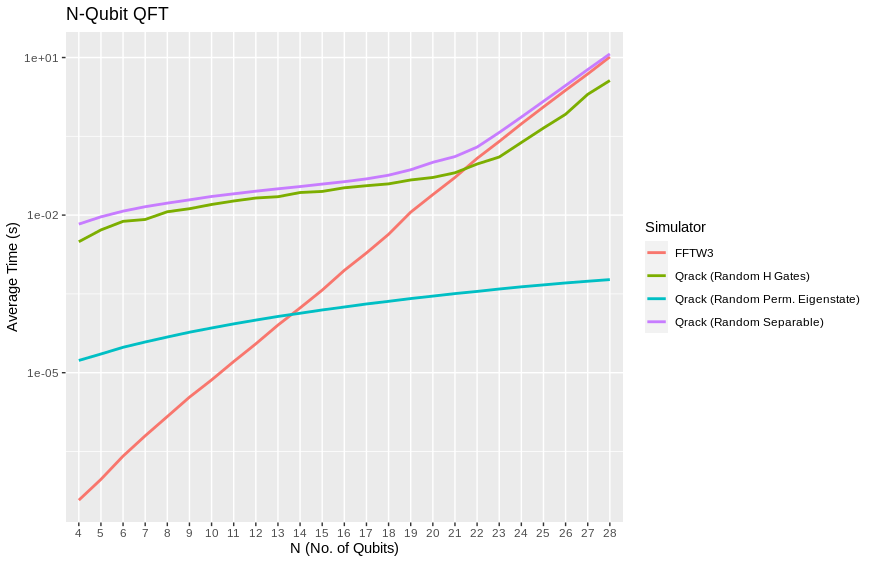
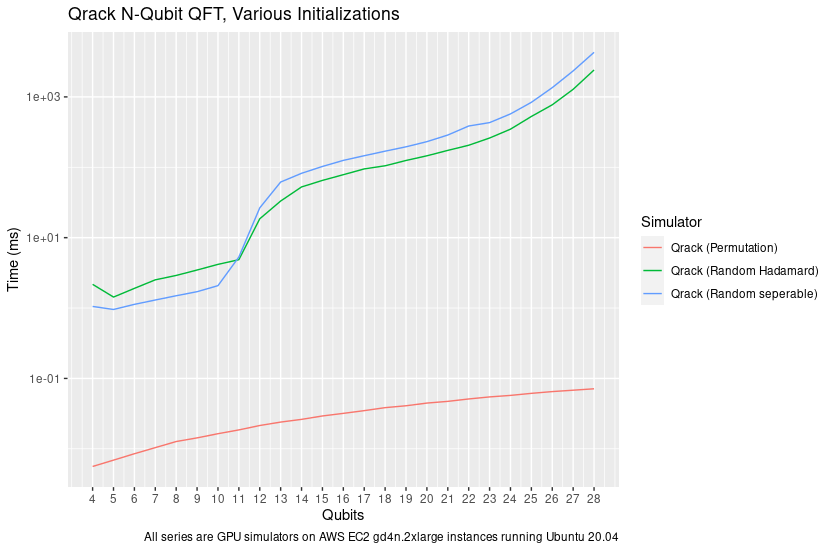
Benchmark update

diff --git a/docs/performance.rst b/docs/performance.rst
@@ -29,8 +29,7 @@ doubling RAM usage by a factor of 2 per fully interoperable qubit, or else
 Feynman path integrals, which can become intractible at arbitrary circuit depth.
 Attempting to build on the work of IBM's `Breaking the 49-Qubit Barrier in the Simulation of Quantum Circuits` [Pednault2017]_ paper, 
 with more recent attention to potential improvements inspired by Gottesman-Knill stabilizer simulators,
-Qrack can execute surprisingly general circuits up to 64 qubits in width on modest single nodes,
-such as constrained cases of the QFT.
+Qrack can execute surprisingly general circuits past 32 qubits in width on modest single nodes.
 
 Qrack is an open-source quantum computer simulator option, implemented in C++, 
 supporting integration into other popular compilers and interfaces, suitable for utilization in a wide variety
@@ -39,15 +38,18 @@ benchmarks useful for comparing performance between various quantum
 simulators.
 
 Qrack provides a "QEngineCPU" and a "QEngineOCL" that represent non-OpenCL and 
-OpenCL base implementations, which could also be the most efficient types to 
-use directly in the limit of maximal entanglement. For general use cases, 
+OpenCL base implementations for Schrödinger method simulation. "QHybrid" switches off between
+these two types internally for best performance at low qubit widths. "QStabilizerHybrid" switches
+off internally between Gottesman-Knill "stabilizer" simulation and Schrödinger method. For general use cases,
 the "QUnit" layer provides explicit Schmidt decomposition on top of another 
-engine type (per [Pednault2017]_) and "QFusion" provides a "gate fusion" 
-layer. A "QEngine" type is always the base layer, and QUnit and QFusion types 
+engine type (per [Pednault2017]_). "QPager" segments a Schrödinger method simulation
+into equally sized "pages" that can be run on multiple OpenCL devices or multiple maximum
+allocation segments of a single device, increasing greatest maximally entangled width.
+A "QEngine" type is always the base layer, and QUnit, QStabilizerHybrid, and QPager types
 may be layered over these, and over each other.
 
 This version of the Qrack benchmarks contains comparisons against other
-publicly available simulators, specifically Cirq, QCGPU, and Qiskit (each with its
+publicly available simulators, specifically QCGPU, and Qiskit (each with its
 default simulator, if multiple were available). Qrack has been incorporated as an optional
 back end for ProjectQ and plugin for Qiskit, in repositories maintained by the developers of Qrack, and
 benchmarks for their performance will follow.
@@ -76,17 +78,17 @@ Method
 
 This performance document is meant to be a simple, to-the-point, and preliminary digest of these results. We plan to submit a formal academic report for peer review of these results, in full detail, as soon as we collect sufficient feedback on the preprint. (The originally planned date of submission was in February of 2020, but it seems that COVID-19 has hindered our ability to seek preliminary feedback.) These results were prepared with the generous financial support of the Unitary Fund. However, we offer that our benchmark code is public, largely self-explanatory, and easily reproducible, while we prepare that report. Hence, we release these partial preliminary results now.
 
-100 timed trials of single and parallel gates were run for each qubit count between 4 and 28 qubits. Three tests were performed: the quantum Fourier transform, ("QFT"), random circuits constructed from a universal gate set, and an idealized approximation of Google's Sycamore chip benchmark, as per [Sycamore]_. The benchmarking code is available at `https://github.com/vm6502q/simulator-benchmarks <https://github.com/vm6502q/simulator-benchmarks>`_.
+100 timed trials of single and parallel gates were run for each qubit count between 4 and 28 qubits. Three tests were performed: the quantum Fourier transform, ("QFT"), random circuits constructed from a universal gate set, and an idealized approximation of Google's Sycamore chip benchmark, as per [Sycamore]_. The benchmarking code is available at `https://github.com/vm6502q/simulator-benchmarks <https://github.com/vm6502q/simulator-benchmarks>`_. Default build and runtime options were used for all candidates. **Notably, this means Qrack ran at single floating point accuracy whereas QCGPU and Qiskit ran at double floating point accuracy.**
 
-CPU and GPU benchmarks were run on two respective systems that could represent realistic use cases for each engine type. Among AWS virtual machine instances, we sought to find those systems with the lowest possible cost to run the benchmarks for their respective execution times, at or below for the 28 qubit mark. An AWS g3s.xlarge running Ubuntu Server 18.04LTS was selected for GPU benchmarks. An AWS c5.4xlarge running Ubuntu Server 18.04LTS was selected for CPU benchmarks, including FFTW3 for comparison on the QFT test. Benchmarks were collected from December 27, 2019 through January 24, 2020. Given delays in soliciting peer opinion, while development of Qrack continued, the Qrack benchmarks were updated on April 30th, 2020. These results were combined with single gate, N-width gate and Grover's search benchmarks for Qrack, collected overnight from December 19th, 2018 into the morning of December 20th. (The potential difference since December 2018 in these particular Qrack tests reused from then should be insignificant. We took care to try to report fair tests, within cost limitations, but please let us know if you find anything that appears misrepresentative.)
+Among AWS virtual machine instances, we sought to find those systems with the lowest possible cost to run the benchmarks for their respective execution times, at or below for the 28 qubit mark. An AWS g4dn.2xlarge running Ubuntu Server 20.04LTS was selected for GPU benchmarks. Benchmarks were collected from March 4, 2021 through March 7, 2021. These results were combined with single gate, N-width gate benchmarks for Qrack, collected overnight from December 19th, 2018 into the morning of December 20th. (The potential difference since December 2018 in these particular Qrack tests reused from then should be insignificant. We took care to try to report fair tests, within cost limitations, but please let us know if you find anything that appears misrepresentative.)
 
-The average time of each set of 100 was recorded and graphed. Grover's search to invert a black box subroutine, or "oracle," was similarly implemented for trials between 5 and 20 qubits, for QEngineOCL with and without QUnit and QFusion layers. Grover's algorithm was iterated an optimal number of times, vs. qubit count, to maximize probability on a half cycle of the algorithm's period, being :math:`floor\left[\frac{\pi}{4asin^2\left(1/\sqrt{2^N}\right)}\right]` iterations for :math:`N` qubits.
+Comparative benchmarks included QCGPU, the Qiskit-Aer GPU simulator, and Qrack's default typically optimal "stack" of a "QUnit" layer on top of "QStabilizerHybrid," on top of "QPager," on top "QHybrid." All of these candidates are GPU-based. CPU-based Cirq was considered for presentation here, but a nonexhaustive experiment on AWS CPU instances advertised as low cost-for-performance failed to return Cirq results on rough order of cost-for-performance of any GPU candidate. However, the author does not feel comfortable concluding on this basis that CPU-based simulation cost could not be made competitve with GPU-based simulation, hence we omit Cirq from our graphs to avoid potential misrepresentation.
 
-Comparative benchmarks included Cirq, QCGPU, and Qiskit, and Qrack's "QUnit" layer on top of "QFusion" and "QEngineOCL." (Default simulators were used, for other candidates, if more than one option was available.) QFT benchmarks could be implemented in a straightforward manner on all simulators, and were run as such. Qrack appears to be the only candidate considered for which inputs into the QFT can (drastically) affect its execution time, with permutation basis states being run in much shorter time, for example, hence only Qrack required a more general random input, whereas all other simulators including FFTW3 were started in the |0> state. For a sufficiently representatively general test, Qrack instead used registers of single separable qubits intialized with uniformly randomly distributed probability between |0> and |1>, and uniformly randomly distributed phase offset between those states. FFTW3 was included in this test, in "in-place" mode on complex single floats, since all other DFT tests are effectively "in-place" method, here.
+QFT benchmarks could be implemented in a straightforward manner on all simulators, and were run as such. Qrack appears to be the only candidate considered for which inputs into the QFT can (drastically) affect its execution time, with permutation basis states being run in much shorter time, for example, hence only Qrack required a more general random input, whereas all other simulators were started in the |0> state. For a sufficiently representatively general test, Qrack instead used registers of single separable qubits intialized with uniformly randomly distributed probability between |0> and |1>, and uniformly randomly distributed phase offset between those states.
 
 Random universal circuits carried out layers of single qubit gates on every qubit in the width of the test, followed by layers randomly selected couplings of (2-qubit) CNOT, CZ, and SWAP, or (3-qubit) CCNOT, eliminating each selected bit for the layer. 20 layers of 1-qubit-plus-multi-qubit iterations were carried out, for each qubit width, for the benchmarks presented here.
 
-For the Sycamore circuit idealization, the quoted 2-qubit "typical" gate of "iSWAP" with "1/6th CZ" was used in all cases. Sycamore circuits were carried out similarly to random universal circuits and the method of the [Sycamore]_ paper, interleaving 1-qubit followed by 2-qubit layers, to depth of 20 layers each. Whereas as that original source appears to have randomly fixed its target circuit ahead of any trials, and then carried the same pre-selected circuit out repeatedly for the required number of trials, all benchmarks in the case of this report generated their circuits per-iteration on-the-fly, per the selection criteria as read from the text of [Sycamore]_. With the 2-qubit gate idealization already mentioned, Qrack easily implemented the original Sycamore circuit exactly. By nature of the simulation methods used in each other candidate, atomic "convenience method" 1-qubit and 2-qubit gate definitions could potentially easily be added to every every candidate for this test, hence we thought it most representative to make largely performance-irrelevant substitutions of 1-qubit and 2-qubit gates for those candidates which did not already define sufficient API convenience methods, without nonrepresentatively complicated gate decompositions. We strongly encourage the reader to inspect and independently execute the simple benchmarking code which was already linked in the beginning of this "Method" section, for total specific detail.
+Sycamore circuits were carried out similarly to random universal circuits and the method of the [Sycamore]_ paper, interleaving 1-qubit followed by 2-qubit layers, to depth of 20 layers each. Whereas as that original source appears to have randomly fixed its target circuit ahead of any trials, and then carried the same pre-selected circuit out repeatedly for the required number of trials, all benchmarks in the case of this report generated their circuits per-iteration on-the-fly, per the selection criteria as read from the text of [Sycamore]_. Qrack easily implemented the original Sycamore circuit exactly. By nature of the Schrödinger method simulation used in each other candidate, atomic "convenience method" 1-qubit and 2-qubit gate definitions could potentially easily be added to other candidates for this test, hence **we thought it most representative to make largely performance-irrelevant substitutions of "SWAP" for "iSWAP" for those candidates which did not already define sufficient API convenience methods for "Sycamore" circuits,** without nonrepresentatively complicated gate decompositions. We strongly encourage the reader to inspect and independently execute the simple benchmarking code which was already linked in the beginning of this "Method" section, for total specific detail.
 
 Qrack QEngine type heap usage was established as very closely matching theoretical expections, in earlier benchmarks, and this has not fundamentally changed. QUnit type heap usage varies greatly dependent on use case, though not in significant excess of QEngine types. No representative RAM benchmarks have been established for QUnit types, yet. QEngine Heap profiling was carried out with Valgrind Massif. Heap sampling was limited but ultimately sufficient to show statistical confidence.
 
@@ -109,13 +111,7 @@ Heap sampling supports theoretical expecations to high confidence. Complex numbe
 
 .. image:: performance/qrack_ram.png
 
-QUnit explicitly separates its representation of the quantum state and may operate with much less RAM, but QEngine's RAM usage represents approximately the worst case for QUnit, of maximal entanglement. OpenCL engine types attempt to use memory on the accelerator device instead of general heap when a QEngineOCL instance can fit a single copy of its state vector in a single allocation on the device. On many modern devices, state vectors up to about 1GB in size can be allocated directly on the accelerator device instead of using general heap. A auxiliary buffer used for normalization is half the size of the state vector, and this buffer is always allocated in general heap.
-
-Grover's algorithm is a relatively ideal test case, in that it allows a modicum of abstraction in implementation while representing an ostensibly practical and common task for truly quantum computational hardware. For 1 expected correct function inversion result, there is a well-defined highest likelihood search iteration count on half a period of the algorithm for a given number of oracle input permutations to search. Time required to run the test for QEngineCPU up to 20 qubits became prohibitive, hence we leave its variants off the graph. However, we can establish baseline for OpenCL performance, with Grover's search, and compare the performance of a "QEngine-method" to a "QUnit-method." This graphs shows average time against qubit count for an optimal half period search:
-
-.. image:: performance/grovers.png
-
-[Broda2016]_ discusses how Grover's might be adapted in practicality to actually "search an unstructured database," or search an unstructured lookup table, and Qrack is also capable of applying Grover's search to a lookup table with its IndexedLDA, IndexedADC, and IndexedSBC methods. Benchmarks are not given for this arguably more practical application of the algorithm, because few other quantum computer simulator libraries implement it, yet.
+QUnit explicitly separates its representation of the quantum state and may operate with much less RAM, but QEngine's RAM usage represents approximately the worst case for QUnit, of maximal entanglement. OpenCL engine types attempt to use memory on the accelerator device instead of general heap when a QEngineOCL instance can fit a single copy of its state vector in a single allocation on the device. On many modern devices, state vectors up to about 1GB in size can be allocated directly on the accelerator device instead of using general heap. "Paging" with QPager allows multiple such maximum allocation segments to be used for the same single simulation. If the normalization option is on, an auxiliary buffer is allocated for normalization that is half the size of the state vector.
 
 The "quantum" (or "discrete") Fourier transform (QFT/DFT) is a realistic and important test case for its direct application in day-to-day industrial computing applications, as well as for being a common processing step in many quantum algorithms.
 
@@ -123,37 +119,42 @@ The "quantum" (or "discrete") Fourier transform (QFT/DFT) is a realistic and imp
 
 .. image:: performance/qft_optimization.png
 
-Recall that QCGPU and Qrack are GPU-implementations run on AWS g3s.xlarge instances, whereas all other candidates are run on AWS c5.4xlarge instances. Under these considerations, by the 28 qubit level, Qrack out-performs all other candidates except FFTW3. (Recall, also, that Qrack uses a representatively "hard" initialization on this test, as described above, whereas permutation basis eigenstate inputs, for example, are much more quickly executed.) Though we are comparing CPU to GPU, CPU-based FFTW3 is clearly the best suited for low numbers of qubits, in general. However, Qrack is the only candidate tested which exhibits even better special case performance on the QFT, as for random permutation basis eigenstate initialization, or initialization via permutation basis eigenstates with random "H" gates applied, before QFT.
+By the 28 qubit level, and at very low qubit widths, Qrack out-performs QCGPU and Qiskit. (Recall that Qrack uses a representatively "hard" initialization on this test, as described above, whereas permutation basis eigenstate inputs, for example, are much more quickly executed.) Qrack is the only candidate tested which exhibits special case performance on the QFT, as for random permutation basis eigenstate initialization, or initialization via permutation basis eigenstates with random "H" gates applied, before QFT.
 
-Similarly, on random universal circuits, defined above and in the benchmark repository, Qrack leads over all other candidates considered by the 23 qubit mark and up. GPU-based QCGPU leads on the test system for 22 or 21 qubits and below, and CPU-based Cirq leads for 8 qubits and fewer.
+Similarly, on random universal circuits, defined above and in the benchmark repository, Qrack leads over all other candidates at the high qubit width end.
 
 .. image:: performance/random_universal.png
 
-Previously, attempted benchmarks for approximations to the the type of circuits argued to establish "quantum supremacy" were presented here. A major bug was identified in those benchmarks. Updated results for these type of circuits will follow shortly, once sufficient data has been collected and scrutinized. (The fix for the bug fundamentally hurts QUnit's performance, and we apologize for the failure of oversight.)
+For "Sycamore" circuits, argued by other authors to establish "quantum supremacy" of native quantum hardware, all simulators tested maintain their general performance trends, as above.
 
+.. image:: performance/sycamore.png
+
+To test new capabilities of the "QPager" layer, a slightly different random universal circuit provided in the Qrack benchmark suite was run on a g4dn.12xlarge with 4 NVIDIA Tesla T4 GPUs, to the maximum qubit width possible, which was 34 qubits. The random gate set selected from is {CCZ, CCNOT, CZ, CNOT} and {H, X, Z} for multi- and single qubit gates.
+
+.. image:: performance/test_ccz_ccx_h_x4.png
+
+With the recently improved QPager layer, it is often possible to achieve a 2 qubit greater maximum width on the same GPU hardware as a result of using all 4 maximum allocation segments typical of NVIDIA GPUs. QPager combines "pages" of maximum allocation segment on an OpenCL device, which are typically of a much smaller size than the overall RAM of the GPU. Proceeding to higher factors of 2 times page count, it becomes possible to use general RAM heap without exceeding maximum allocation according to the OpenCL standard, as is demonstrated in the graph above.
 
 Discussion
 **********
 
-Up to a consistent deviation at low qubit counts, speed and RAM usage for Schrödinger method QEngine types is well predicted by theoretical complexity considerations of the gates, up to about a factor of 2 on heap usage for duplication of the state vector, with additional 1/2 the size of state vector allocated by QEngineOCL for an auxiliary normalization buffer.
+Qrack::QUnit succeeds as a novel and fundamentally improved quantum simulation algorithm, over the naive Schrödinger algorithm in special cases. Primarily, QUnit does this by representing its state vector in terms of decomposed subsystems, as well as buffering and commuting Pauli X and Y basis transformations and singly-controlled gates. On user and internal probability checks, QUnit will attempt to separate the representations of independent subsystems by Schmidt decomposition. Further, Qrack will avoid applying phase effects that make no difference to the expectation values of any Hermitian operators, (no difference to "physical observables"). For each bit whose representation is separated this way, we recover a factor of close to or exactly 1/2 the subsystem RAM and gate execution time.
 
-Qrack::QUnit succeeds as a novel and fundamentally improved quantum simulation algorithm, over the naive Schrödinger algorithm. Primarily, QUnit does this by representing its state vector in terms of decomposed subsystems, as well as buffering and commuting H gates and singly-controlled gates. On user and internal probability checks, QUnit will attempt to separate the representations of independent subsystems by Schmidt decomposition. Further, Qrack will avoid applying phase effects that make no difference to the expectation values of any Hermitian operators, (no difference to "physical observables"). For each bit whose representation is separated this way, we recover a factor of close to or exactly 1/2 the subsystem RAM and gate execution time.
+Qrack::QPager, recently, gives several major advantages with or without a Qrack::QUnit layer on top. It usually allows 2 greater maximum qubit width allocation on the same 4-segment GPU RAM store, and it performs surprisingly well for execution speed at high qubit widths. It can also utilize larger system general RAM heap stores than what is available just as GPU RAM.
+
+Qrack has seemingly poor mid-range qubit width performance on the selected g4dn.2xlarge instance, (or, alternatively, good performance at very narrow and very wide ends of the scale, which is not maintained in middle range). As the g4dn.2xlarge only provides 8 "vCPU" units, which is far smaller than a typical PC CPU, mid-range performance might be alleviated somewhat by a more powerful CPU alongside GPU resources. Further, the use of the QPager layer under QUnit might incur a performance penalty at widths too wide for QHybrid optimization with CPU simulation, but too narrow to see returns from the complexity of QPager. While it might be disappointing that the default "layer stack" for Qrack does not perform best across all qubit widths on the selected AWS EC2 instance, good performance at the very wide and very narrow ends of the scale likely still motivates the adoption of Qrack for HPC and PC simulation.
 
 Further Work
 ************
 
-A formal report of the above and additional benchmark results, in much greater detail and specificity, is planned to be submitted for publication as soon as sufficient preliminary peer opinion can be collected on the preprint, in early to mid 2020, thanks to the generous support of the Unitary Fund.
-
-Qrack previously contained two experimental multiprocessor types, "QEngineOCLMulti" based on the algorithms developed in Intel's [QHiPSTER]_, and the simpler QUnitMulti type, which dispatches different separable subsystems to different processors. These failed to outperform the single processor QEngineOCL. However, as Qrack has added optional support as a simulator for ProjectQ, we have effectively gained access to the quantum network simulator "SimulaQron" by SoftwareQuTech. At least one Qrack user is experimenting with scaling deployments of containers loaded with Qrack, ProjectQ, and SimulaQron as an effective solution for multiprocessor and cluster operations, and the Qrack team is looking at this and related approaches for this purpose. An asynchronous quantum P2P model, for effective multiprocessor support, should hopefully reduce inter-device communication overhead bottlenecks.
-
-With the new generation of "VPU" processors available in 2019 and 2020, (for visual inference,) it might be possible to co-opt VPU capabilities for inference of raw state vector features, such as Schmidt separability, to improve the performance of QUnit. The authors of Qrack have started looking at this hardware for this purpose.
+A formal report of the above and additional benchmark results, in much greater detail and specificity, is planned to be submitted for publication as soon as sufficient preliminary peer opinion can be collected on the preprint, in early to mid 2021, thanks to the generous support of the Unitary Fund.
 
 We will maintain systematic comparisons to published benchmarks of quantum computer simulation standard libraries, as they arise.
 
 Conclusion
 **********
 
-Per [Pednault2017]_, and many other attendant and synergistic optimizations engineered specifically in Qrack's QUnit, explicitly separated subsystems of qubits in QUnit have a significant RAM and speed edge in many cases over the Schrödinger algorithm of most popular quantum computer simulators. Qrack gives very efficient performance on a single node past 32 qubits, up to the limit of maximal entanglement.
+Per [Pednault2017]_, and many other attendant and synergistic optimizations engineered specifically in Qrack's QUnit, explicitly separated subsystems of qubits in QUnit have a significant RAM and speed edge in many cases over the Schrödinger algorithm of most popular quantum computer simulators. With QPager, it is possible to achieve even higher qubit widths and execution speeds. Qrack gives very efficient performance on a single node past 32 qubits, up to the limit of maximal entanglement.
 
 Citations
 *********
